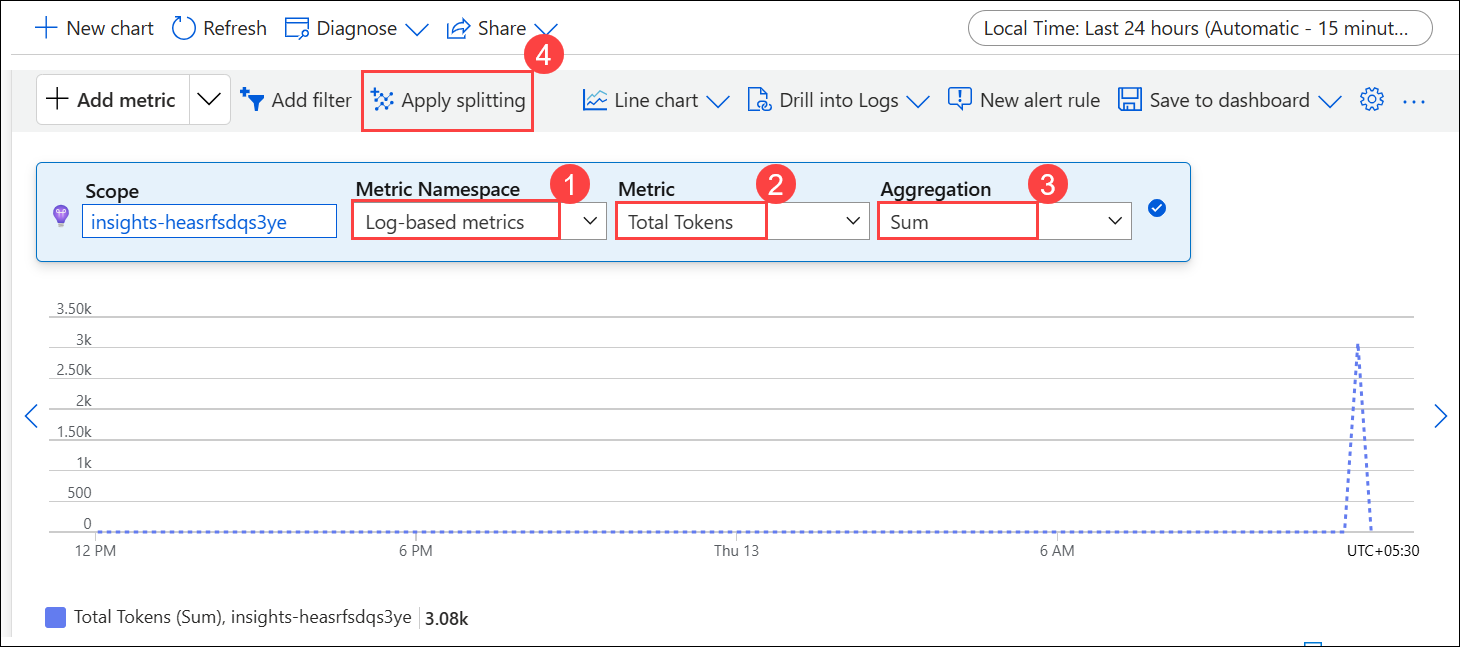
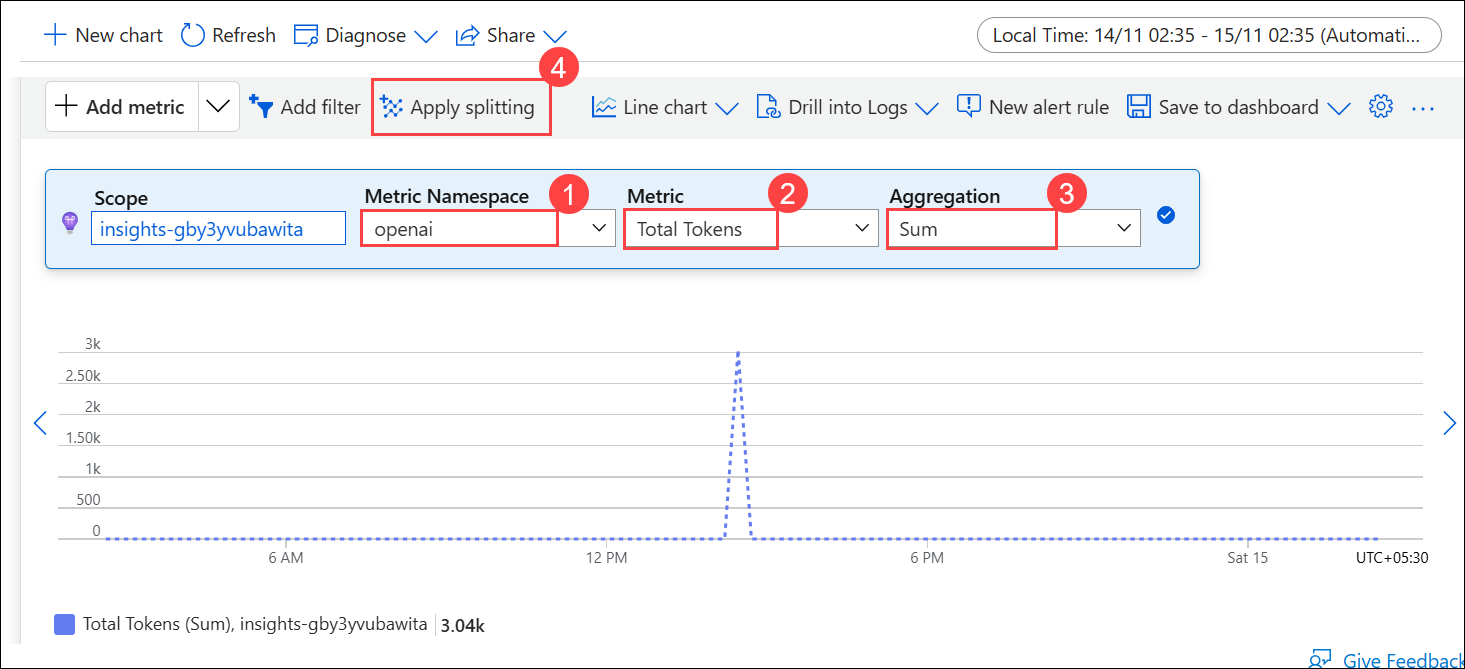
update

diff --git a/Exercise 3: Exposing MCP Tools via API Management.md b/Exercise 3: Exposing MCP Tools via API Management.md
@@ -8,13 +8,139 @@ In this exercise, you will learn how to expose Model Context Protocol (MCP) tool
 
 ## Lab Objectives
 
-- Task 1: Expose existing MCP Servers in API Management
+- Task 1: Publish REST APIs as MCP tools in API Management
 
-- Task 2: Publish REST APIs as MCP tools in API Management
+- Task 2: Implement client authorization and secure access for MCP servers
 
-- Task 3: Implement client authorization and secure access for MCP servers
+- Task 3: Expose existing MCP Servers in API Management
 
-## Task 1: Expose existing MCP Servers in API Management
+## Task 1: Publish REST APIs as MCP tools in API Management
+
+In this task, you will deploy and test the Model Context Protocol (MCP) using Azure API Management (APIM). You will initialize environment variables, deploy the required infrastructure using Bicep, and verify MCP server connectivity using Python SDK commands.
+
+1. In Visual Studio Code, expand the **lab (1)** folder, then select **mcp-from-api (2)**, and click **mcp-from-api.ipynb (3)** to open the notebook.
+
+    ![](./media/e3t2p1.png)
+
+1. Once the notebook opens, review all the sections and their descriptions. The notebook is divided into initialization, deployment, and verification steps that guide you through the process of configuring an MCP-enabled API gateway.
+
+1. Scroll down to **Initialize notebook variables** and enter the following details:
+
+   - resource_group_name: **Q2a-APIM-RG-<inject key="DeploymentID" enableCopy="false"/>**
+
+   - aiservices_config: **foundry4-<inject key="DeploymentID" enableCopy="false"/>**
+
+   - apim_name: **apim-<inject key="DeploymentID" enableCopy="false"/>**
+
+        >**Note:** Ensure that the correct name is entered in the respective section section.
+
+1. **Run** the cell **Initialize notebook variables** to set up environment variables. This step defines your resource names, Azure region, and other configuration details required for consistent and automated deployment across subscriptions.
+
+    ![](./media/initvar-e3t2.png)
+
+1. Next, scroll down to **Create deployment using 🦾 Bicep** and **Run** the cell to deploy all required Azure resources. The Bicep template provisions services like Azure API Management, Azure OpenAI, and related components needed for the MCP setup. Wait for the deployment process to complete successfully. The cell output will show status messages confirming that the resource group, API Management instance, and supporting components were created.
+
+    ![](./media/deploy-e3t2.png)
+
+1. Next, scroll to **Get the deployment outputs** and **Run** the cell to retrieve key configuration details such as the Log Analytics Workspace ID, APIM URL, and MCP endpoint. These outputs will be used later to connect and test your MCP-enabled service.
+
+    ![](./media/outputs-e3t2.png)
+
+1. Next, scroll to **Test the connection to the MCP servers and List Tools** section and **Run** the cell to test your MCP setup. This command initiates a connection to the deployed MCP servers, validates network communication, and retrieves a list of available tools that your MCP service exposes. If the connection test is successful, the output will display the list of MCP tools, confirming that the API Management instance has been successfully transformed into an MCP-compatible service endpoint.
+
+    ![](./media/test-e3t2.png)
+
+1. **(Optional) Use the MCP Inspector for Testing and Debugging**. This step is optional and helps you visualize and debug your MCP setup using a browser-based interface.
+
+1. Next, scroll down to **Execute an Azure AI Foundry Agent using MCP Tools** and **Run** the cell to demonstrate how an Azure AI Agent can use MCP tools published via API Management. This step sets up an asynchronous connection between Azure OpenAI, MCPServerStreamableHttp, and the deployed MCP endpoints, allowing the AI Agent to invoke tools exposed through APIM. You can observe the agent interacting with MCP tools, retrieving data, or performing operations through the configured MCP service.
+
+    ![](./media/execute-e3t2.png)
+
+    ![](./media/execute-e3t2(1).png)
+
+1. Next, scroll down to **Test the rate limit on Microsoft Learn MCP pass-through** and **Run** the cell to verify that rate-limiting policies applied in API Management are functioning correctly. This test sends multiple requests through the APIM-managed MCP endpoint to ensure that requests exceeding the defined threshold are properly throttled. You’ll notice that after a certain number of requests, the API Management service returns a `429` "Too Many Requests response", confirming that the rate-limit policy is working as expected.
+
+    ![](./media/rate-e3t2.png)
+
+1. Next, scroll down to **Test the Product Catalog MCP Authorization WITHOUT a valid token** and **Run** the cell. This test attempts to call the Product Catalog MCP endpoint without authorization headers, simulating an unauthenticated client request. You should observe a 401 Unauthorized response, verifying that the security policy in policy.xml correctly blocks requests lacking valid tokens.
+
+    ![](./media/notoken-e3t2.png)
+
+1. Next, scroll down to **Test the Product Catalog MCP Authorization WITH a valid token** and **Run** the cell. This test sends a request to the same Product Catalog MCP endpoint, but this time includes a valid authorization token in the request headers. The request should succeed, returning a valid response from the backend service (e.g., product information). This demonstrates that the authorization policy is functioning correctly, allowing only authenticated users to access MCP-protected APIs.
+
+    ![](./media/product-e3t2.png)
+
+1. Next, scroll down to **Test the Place Order MCP Authorization WITH a valid token** and **Run** the cell to verify authenticated access to the order placement MCP endpoint. This step sends a valid, authorized request to the Place Order MCP API via API Management. The request includes a valid bearer token in the headers, ensuring that only authenticated users can perform order operations.
+
+    ![](./media/place-e3t2.png)
+
+
+> **Congratulations** on completing the task! Now, it's time to validate it. Here are the steps:
+> - If you receive a success message, you can proceed to the next task.
+> - If not, carefully read the error message and retry the step, following the instructions in the lab guide. 
+> - If you need any assistance, please contact us at cloudlabs-support@spektrasystems.com. We are available 24/7 to help you out.
+
+<validation step="801278ec-d303-4427-912c-b81dc6edf5c8" />
+
+## Task 2: Implement client authorization and secure access for MCP servers
+
+In this lab, you will configure and test the Model Context Protocol (MCP) client authorization flow using Azure API Management and Microsoft Entra ID (Azure AD).
+
+1. In Visual Studio Code, expand the **lab (1)** folder, then select **mcp-client-authorization (2)**, and click **mcp-client-authorization.ipynb (3)** to open it.
+
+    ![](./media/e3t3p1.png)
+
+1. Once the notebook is open, review all the sections to understand the flow of the lab. The notebook is divided into sequential sections that include initialization, app registration, deployment, and testing.
+
+1. Scroll down to **Initialize notebook variables** and enter the following details:
+
+   - resource_group_name: **Q2a-APIM-RG-<inject key="DeploymentID" enableCopy="false"/>**
+
+   - apim_name: **apim-<inject key="DeploymentID" enableCopy="false"/>**
+
+        >**Note:** Ensure that the correct name is entered in the respective section section.
+
+1. **Run** the cell **Initialize notebook variables**. This step initializes the core environment variables for your deployment, including the resource group name, deployment identifiers, subscription details, and Azure region configuration.
+
+    ![](./media/initvar-e3t3.png)
+
+1. After initializing the variables, scroll to **Verify the Azure CLI and the connected Azure subscription** and **Run** the cell. This cell ensures that the Azure CLI is installed and that you are signed into the correct subscription. It retrieves and displays your current user account, tenant ID, and subscription ID to verify that you are working within the intended Azure environment. Seeing these values confirms that your local setup is correctly authenticated and ready for the deployment phase.
+
+    ![](./media/ver-e3t3.png)
+
+1. Next, scroll down to **Create the App Registration in Microsoft Entra ID** and **run** the cell to automatically create an app registration.
+
+    ![](./media/appreg-e3t3.png)
+
+1. Next, scroll to **Create deployment using 🦾 Bicep** and click **Run**. This command triggers the deployment of the infrastructure defined in your main.bicep template. During this step, a new resource group will be created if one does not already exist. The script then defines all required parameters dynamically and deploys key Azure services such as Azure API Management, Log Analytics, and supporting resources required for the MCP client authorization lab. Wait for this cell to complete before proceeding, as this deployment forms the foundation of your environment.
+
+    ![](./media/deploy-e3t3.png)
+
+1. Once the deployment is complete, scroll down to **Get the deployment outputs** and **run** the cell. This step retrieves all important configuration details from your Bicep deployment, including the APIM Gateway URL, Client Authorization Endpoint, Log Analytics Workspace ID, and any relevant identifiers or secrets.
+
+    ![](./media/outputs-e3t3.png)
+
+1. Next, locate and run the cell labeled **Build and deploy the MCP Servers**. This section builds and publishes the MCP server components defined in your environment. Once executed, it deploys the MCP endpoints through API Management and ensures that these endpoints are correctly registered and accessible. By the end of this step, your MCP services should be fully deployed and ready to handle authorization requests.
+
+    ![](./media/build-e3t3.png)
+
+1. Next, scroll down to **Update the App Registration with the Redirect URI from APIM** and **Run** the cell to apply the required changes to the Microsoft Entra (Azure AD) app you created earlier.
+
+    ![](./media/update-e3t3.png)
+
+1. After successfully deploying your MCP servers, scroll down to **Test the MCP Authorization Flow** and **Run** the cell.
+
+    ![](./media/test-e3t3(1).png)
+
+> **Congratulations** on completing the task! Now, it's time to validate it. Here are the steps:
+> - If you receive a success message, you can proceed to the next task.
+> - If not, carefully read the error message and retry the step, following the instructions in the lab guide. 
+> - If you need any assistance, please contact us at cloudlabs-support@spektrasystems.com. We are available 24/7 to help you out.
+
+<validation step="854a01ef-200d-4ac7-a683-3af83e3d6e3b" />
+
+
+## Task 3: Expose existing MCP Servers in API Management
 
 In this task, you’ll deploy and test the Model Context Protocol (MCP) architecture using Azure API Management (APIM). You’ll learn how to connect AI agents with various backend tools (like GitHub Issues, ServiceNow incidents, or weather APIs) through a unified API gateway, using OAuth 2.0 credential management and token validation policies to ensure secure communication.
 
@@ -109,131 +235,6 @@ In this task, you’ll deploy and test the Model Context Protocol (MCP) architec
 > - If you need any assistance, please contact us at cloudlabs-support@spektrasystems.com. We are available 24/7 to help you out.
 
 <validation step="4b7af6d6-842d-472b-9f39-0ec7dca00a2a" />
-
-## Task 2: Publish REST APIs as MCP tools in API Management
-
-In this task, you will deploy and test the Model Context Protocol (MCP) using Azure API Management (APIM). You will initialize environment variables, deploy the required infrastructure using Bicep, and verify MCP server connectivity using Python SDK commands.
-
-1. In Visual Studio Code, expand the **lab (1)** folder, then select **mcp-from-api (2)**, and click **mcp-from-api.ipynb (3)** to open the notebook.
-
-    ![](./media/e3t2p1.png)
-
-1. Once the notebook opens, review all the sections and their descriptions. The notebook is divided into initialization, deployment, and verification steps that guide you through the process of configuring an MCP-enabled API gateway.
-
-1. Scroll down to **Initialize notebook variables** and enter the following details:
-
-   - resource_group_name: **Q2a-APIM-RG-<inject key="DeploymentID" enableCopy="false"/>**
-
-   - aiservices_config: **foundry4-<inject key="DeploymentID" enableCopy="false"/>**
-
-   - apim_name: **apim-<inject key="DeploymentID" enableCopy="false"/>**
-
-        >**Note:** Ensure that the correct name is entered in the respective section section.
-
-1. **Run** the cell **Initialize notebook variables** to set up environment variables. This step defines your resource names, Azure region, and other configuration details required for consistent and automated deployment across subscriptions.
-
-    ![](./media/initvar-e3t2.png)
-
-1. Next, scroll down to **Create deployment using 🦾 Bicep** and **Run** the cell to deploy all required Azure resources. The Bicep template provisions services like Azure API Management, Azure OpenAI, and related components needed for the MCP setup. Wait for the deployment process to complete successfully. The cell output will show status messages confirming that the resource group, API Management instance, and supporting components were created.
-
-    ![](./media/deploy-e3t2.png)
-
-1. Next, scroll to **Get the deployment outputs** and **Run** the cell to retrieve key configuration details such as the Log Analytics Workspace ID, APIM URL, and MCP endpoint. These outputs will be used later to connect and test your MCP-enabled service.
-
-    ![](./media/outputs-e3t2.png)
-
-1. Next, scroll to **Test the connection to the MCP servers and List Tools** section and **Run** the cell to test your MCP setup. This command initiates a connection to the deployed MCP servers, validates network communication, and retrieves a list of available tools that your MCP service exposes. If the connection test is successful, the output will display the list of MCP tools, confirming that the API Management instance has been successfully transformed into an MCP-compatible service endpoint.
-
-    ![](./media/test-e3t2.png)
-
-1. **(Optional) Use the MCP Inspector for Testing and Debugging**. This step is optional and helps you visualize and debug your MCP setup using a browser-based interface.
-
-1. Next, scroll down to **Execute an Azure AI Foundry Agent using MCP Tools** and **Run** the cell to demonstrate how an Azure AI Agent can use MCP tools published via API Management. This step sets up an asynchronous connection between Azure OpenAI, MCPServerStreamableHttp, and the deployed MCP endpoints, allowing the AI Agent to invoke tools exposed through APIM. You can observe the agent interacting with MCP tools, retrieving data, or performing operations through the configured MCP service.
-
-    ![](./media/execute-e3t2.png)
-
-    ![](./media/execute-e3t2(1).png)
-
-1. Next, scroll down to **Test the rate limit on Microsoft Learn MCP pass-through** and **Run** the cell to verify that rate-limiting policies applied in API Management are functioning correctly. This test sends multiple requests through the APIM-managed MCP endpoint to ensure that requests exceeding the defined threshold are properly throttled. You’ll notice that after a certain number of requests, the API Management service returns a `429` "Too Many Requests response", confirming that the rate-limit policy is working as expected.
-
-    ![](./media/rate-e3t2.png)
-
-1. Next, scroll down to **Test the Product Catalog MCP Authorization WITHOUT a valid token** and **Run** the cell. This test attempts to call the Product Catalog MCP endpoint without authorization headers, simulating an unauthenticated client request. You should observe a 401 Unauthorized response, verifying that the security policy in policy.xml correctly blocks requests lacking valid tokens.
-
-    ![](./media/notoken-e3t2.png)
-
-1. Next, scroll down to **Test the Product Catalog MCP Authorization WITH a valid token** and **Run** the cell. This test sends a request to the same Product Catalog MCP endpoint, but this time includes a valid authorization token in the request headers. The request should succeed, returning a valid response from the backend service (e.g., product information). This demonstrates that the authorization policy is functioning correctly, allowing only authenticated users to access MCP-protected APIs.
-
-    ![](./media/product-e3t2.png)
-
-1. Next, scroll down to **Test the Place Order MCP Authorization WITH a valid token** and **Run** the cell to verify authenticated access to the order placement MCP endpoint. This step sends a valid, authorized request to the Place Order MCP API via API Management. The request includes a valid bearer token in the headers, ensuring that only authenticated users can perform order operations.
-
-    ![](./media/place-e3t2.png)
-
-
-> **Congratulations** on completing the task! Now, it's time to validate it. Here are the steps:
-> - If you receive a success message, you can proceed to the next task.
-> - If not, carefully read the error message and retry the step, following the instructions in the lab guide. 
-> - If you need any assistance, please contact us at cloudlabs-support@spektrasystems.com. We are available 24/7 to help you out.
-
-<validation step="801278ec-d303-4427-912c-b81dc6edf5c8" />
-
-## Task 3: Implement client authorization and secure access for MCP servers
-
-In this lab, you will configure and test the Model Context Protocol (MCP) client authorization flow using Azure API Management and Microsoft Entra ID (Azure AD).
-
-1. In Visual Studio Code, expand the **lab (1)** folder, then select **mcp-client-authorization (2)**, and click **mcp-client-authorization.ipynb (3)** to open it.
-
-    ![](./media/e3t3p1.png)
-
-1. Once the notebook is open, review all the sections to understand the flow of the lab. The notebook is divided into sequential sections that include initialization, app registration, deployment, and testing.
-
-1. Scroll down to **Initialize notebook variables** and enter the following details:
-
-   - resource_group_name: **Q2a-APIM-RG-<inject key="DeploymentID" enableCopy="false"/>**
-
-   - apim_name: **apim-<inject key="DeploymentID" enableCopy="false"/>**
-
-        >**Note:** Ensure that the correct name is entered in the respective section section.
-
-1. **Run** the cell **Initialize notebook variables**. This step initializes the core environment variables for your deployment, including the resource group name, deployment identifiers, subscription details, and Azure region configuration.
-
-    ![](./media/initvar-e3t3.png)
-
-1. After initializing the variables, scroll to **Verify the Azure CLI and the connected Azure subscription** and **Run** the cell. This cell ensures that the Azure CLI is installed and that you are signed into the correct subscription. It retrieves and displays your current user account, tenant ID, and subscription ID to verify that you are working within the intended Azure environment. Seeing these values confirms that your local setup is correctly authenticated and ready for the deployment phase.
-
-    ![](./media/ver-e3t3.png)
-
-1. Next, scroll down to **Create the App Registration in Microsoft Entra ID** and **run** the cell to automatically create an app registration.
-
-    ![](./media/appreg-e3t3.png)
-
-1. Next, scroll to **Create deployment using 🦾 Bicep** and click **Run**. This command triggers the deployment of the infrastructure defined in your main.bicep template. During this step, a new resource group will be created if one does not already exist. The script then defines all required parameters dynamically and deploys key Azure services such as Azure API Management, Log Analytics, and supporting resources required for the MCP client authorization lab. Wait for this cell to complete before proceeding, as this deployment forms the foundation of your environment.
-
-    ![](./media/deploy-e3t3.png)
-
-1. Once the deployment is complete, scroll down to **Get the deployment outputs** and **run** the cell. This step retrieves all important configuration details from your Bicep deployment, including the APIM Gateway URL, Client Authorization Endpoint, Log Analytics Workspace ID, and any relevant identifiers or secrets.
-
-    ![](./media/outputs-e3t3.png)
-
-1. Next, locate and run the cell labeled **Build and deploy the MCP Servers**. This section builds and publishes the MCP server components defined in your environment. Once executed, it deploys the MCP endpoints through API Management and ensures that these endpoints are correctly registered and accessible. By the end of this step, your MCP services should be fully deployed and ready to handle authorization requests.
-
-    ![](./media/build-e3t3.png)
-
-1. Next, scroll down to **Update the App Registration with the Redirect URI from APIM** and **Run** the cell to apply the required changes to the Microsoft Entra (Azure AD) app you created earlier.
-
-    ![](./media/update-e3t3.png)
-
-1. After successfully deploying your MCP servers, scroll down to **Test the MCP Authorization Flow** and **Run** the cell.
-
-    ![](./media/test-e3t3(1).png)
-
-> **Congratulations** on completing the task! Now, it's time to validate it. Here are the steps:
-> - If you receive a success message, you can proceed to the next task.
-> - If not, carefully read the error message and retry the step, following the instructions in the lab guide. 
-> - If you need any assistance, please contact us at cloudlabs-support@spektrasystems.com. We are available 24/7 to help you out.
-
-<validation step="854a01ef-200d-4ac7-a683-3af83e3d6e3b" />
 
 ## Summary
 

diff --git a/Exercise 2: Managing LLM Traffic.md b/Exercise 2: Managing LLM Traffic.md
@@ -94,7 +94,7 @@ In this task, you will deploy APIM and Azure AI Foundry endpoints, set up models
 
 1. Enter the following values in the respective fields:
 
-   - Metric Namespace: **Log-based metrics(1)**
+   - Metric Namespace: **openai (1)**
    - Metric: **Total Tokens (2)**
    - Aggregation: **Sum (3)**
    - Click on **Apply splitting (4)**.
@@ -103,7 +103,7 @@ In this task, you will deploy APIM and Azure AI Foundry endpoints, set up models
 
    - Values: **Subscription ID (5)**
 
-      ![](./media/e2t1-appin(3).png)
+      ![](./media/appin-e2t1(1).png)
 
 ## Task 2: Apply rate limiting policies to control token consumption
 
